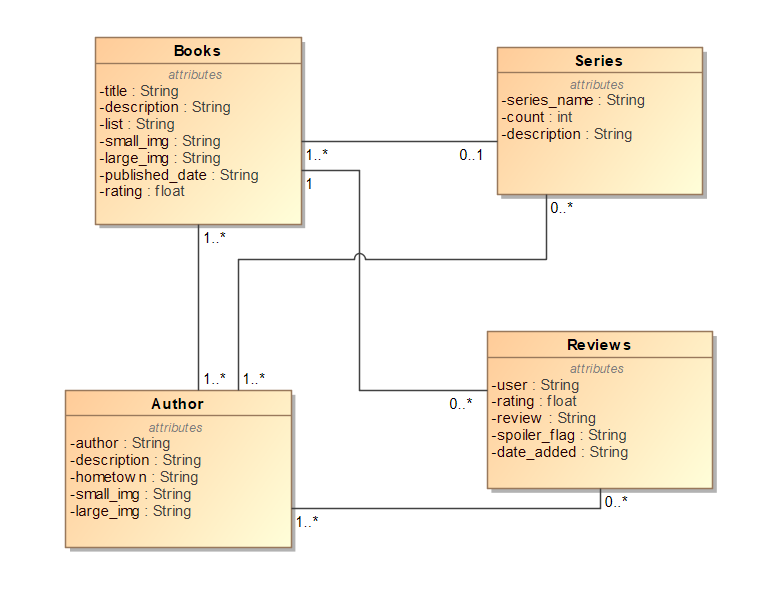
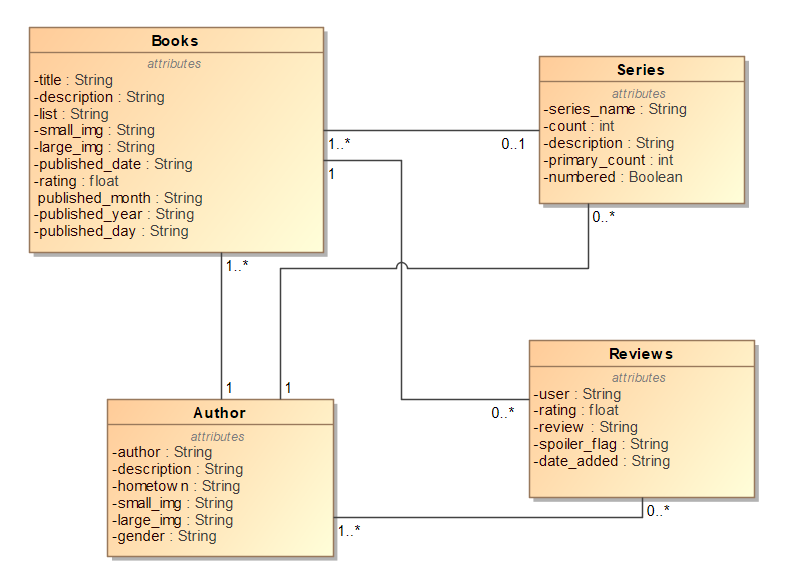
attributes added and UML

Changed region(s): [[0.03, 0.0307, 0.9608, 0.9829]]

diff --git a/static/js/Grid.js b/static/js/Grid.js
@@ -559,7 +559,7 @@ var Grid = React.createClass({
       }
       else if (this.props.model === "series_i")
       {
-        attr1 = item['count'] + " books";
+        attr1 = item['primary_count'] + " books";
         result = "../static/series_art/series.jpg";
         if(item["description"] != null){
           attr3 = item["description"].substring(0, 80) + "...";
@@ -567,7 +567,11 @@ var Grid = React.createClass({
         else {
           attr3 = "No description";
         }
-        attr2 = "Needs another attribute";
+        if(item["numbered"] == 1) {
+          attr2 = "Books ordered";
+        } else {
+          attr2 = "Read in any order";
+        }
       }
       else if (this.props.model === "books")
       {
@@ -578,7 +582,7 @@ var Grid = React.createClass({
         else {
           attr3 = "No description";
         }
-        attr2 = "Published: " + item["published_date"];
+        attr2 = "Published: " + item["published_month"] + "/" + item["published_day"] + "/" + item["published_year"];
       }
       else if (this.props.model === "author")
       {
@@ -589,7 +593,8 @@ var Grid = React.createClass({
         else {
           attr3 = "No description";
         }
-        attr2 = "Needs another attribute";
+       // attr2 = item["gender"];
+       attr2 = "another attribute needed";
       }
 
         return(

diff --git a/static/js/SeriesInstance.js b/static/js/SeriesInstance.js
@@ -119,6 +119,14 @@ var SeriesInstance = React.createClass({
             </li>
           ));
 
+    var ordered = "";
+    if (seriesObj["numbered"] == 1) {
+      ordered = "Should be read in order";
+    }
+    else {
+      ordered = "Can be read out of order";
+    }
+
     console.log(this.state.booksArray);
     console.log(typeof this.state.booksArray);
 
@@ -133,7 +141,8 @@ var SeriesInstance = React.createClass({
       <section className = "right">
       <div className="info">
         <h2  className="summary"><p><b>Description: </b></p>{ seriesObj["description"] }</h2>
-        <h3> Count: {seriesObj['count']}</h3>
+        <h3> Count: {seriesObj['primary_count']}</h3>
+        <h3> { ordered }</h3>
         <h2><b>Author: </b><a href= {"/author/"+ this.state.authorId }>{authorObj['author'] }</a></h2>
       </div>
     </section>

diff --git a/static/js/BookInstance.js b/static/js/BookInstance.js
@@ -155,6 +155,7 @@ var BookInstance = React.createClass({
           <h2><b>Rating: </b> {bookObj["rating"]}</h2>
           <h2><b>Series: </b><a href= {"/series/"+ this.state.seriesId }>{seriesObj['series_name'] }</a></h2>
           <h2><b>Author: </b><a href= {"/author/"+ this.state.authorId }>{authorObj['author'] }</a></h2>
+          <h2><b>Published: </b>{bookObj["published_month"]}/{bookObj["published_day"]}/{bookObj["published_year"]}</h2>
           <h2><p><b>Reviews: </b></p></h2>
           <ul>
             { reviews }
